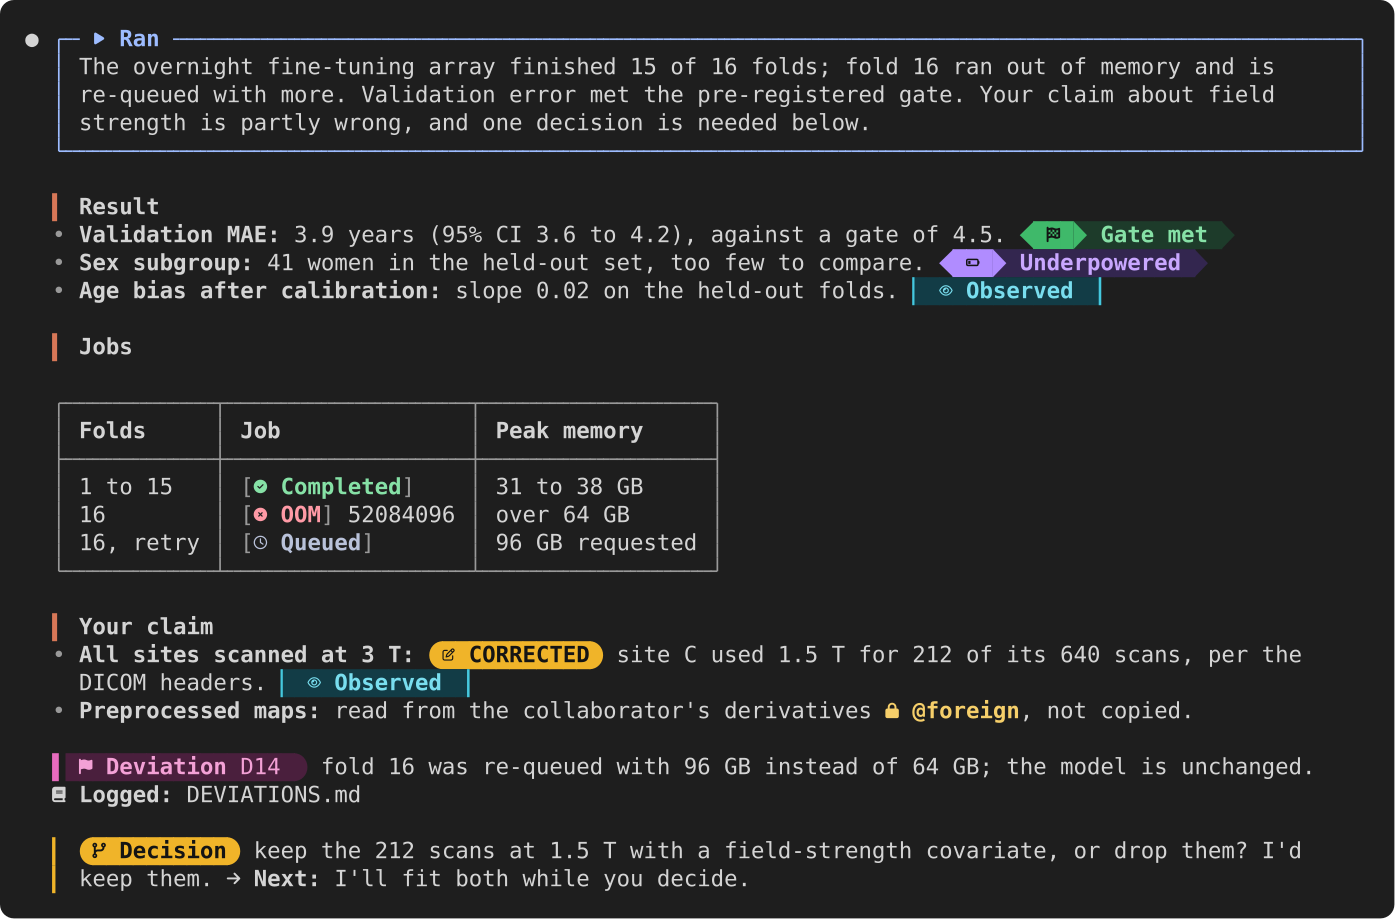
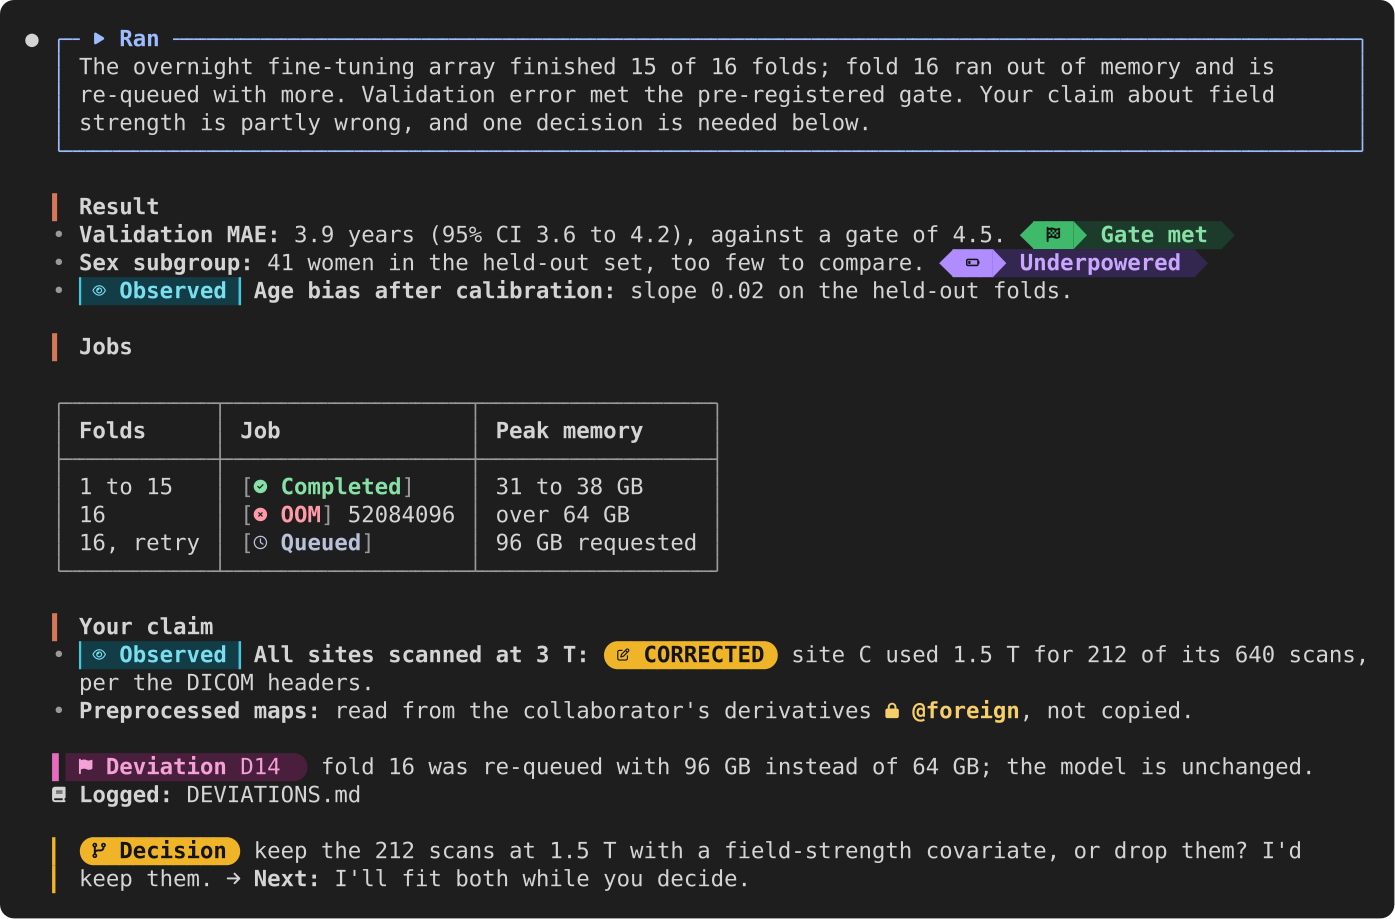
Evidence tags lead their bullet; tighter evidence chips
The rules now put an evidence tag at the start of the bullet or
paragraph it qualifies, before the lead label, and the plugin moves a
single trailing tag there, so tags line up at the left in replies from
any session. The evidence chip drops its inner padding: the thin edge
characters already leave most of their cell empty.

Changed region(s): [[0.0308, 0.6703, 0.9864, 0.7617], [0.0308, 0.2742, 0.8014, 0.3351]]

diff --git a/hooks/emphasis.ts b/hooks/emphasis.ts
@@ -239,7 +239,7 @@ export function pillRuns(text: string, set: Settings): Run[] {
       const themed = set.palette === 'theme'
       const fill = themed ? { color: h.text } : { bg: h.wash, color: h.onWash }
       const edge = themed ? { color: h.text } : { bg: h.wash, color: h.solid }
-      return [{ ...edge, s: '▏' }, ...pad(label(icon, word, detail, fill), fill), { ...edge, s: '▕' }]
+      return [{ ...edge, s: '▏' }, ...label(icon, word, detail, fill), { ...edge, s: '▕' }]
     }
     case 'verdict': {
       const fill = { bg: h.solid, color: h.onSolid }
@@ -317,6 +317,19 @@ function actionIcon(inner: string, set: Settings): string | undefined {
 }
 
 const PILL = /^\[\[([^[\]\n]{1,32})\]\]/
+const ANY_PILL = /\[\[([^[\]\n]{1,32})\]\]/g
+
+/**
+ * An evidence tag leads the bullet or paragraph it qualifies, so tags line up at the left. A single
+ * tag written at the end is moved to the front; with several tags, each stays where it was written.
+ */
+export function leadEvidence(raw: string): string {
+  const tags = [...raw.matchAll(ANY_PILL)].filter(m => WORDS[readLabel(m[1]!).word ?? '']?.family === 'evidence')
+  if (tags.length !== 1) return raw
+  const tag = tags[0]!
+  if (tag.index! + tag[0].length !== raw.trimEnd().length || tag.index === 0) return raw
+  return `${tag[0]} ${raw.slice(0, tag.index).trimEnd()}`
+}
 const LINK = /^\[([^\]\n]+)\]\(([^()\s]+)\)/
 const ESCAPABLE = /[\\`*_[\]()#+\-.!~|>{}]/
 
@@ -510,7 +523,7 @@ export function parseBlocks(markdown: string, set: Settings): Block[] {
       let lead = 0
       const conn = /^(?:[├└]──\s*)/.exec(item[3]!)
       if (conn) lead = conn[0].length
-      open = { raw: item[3]!, make: raw => ({ k: 'item', indent, marker, runs: parseInline(raw, set, { s: '' }, lead) }) }
+      open = { raw: item[3]!, make: raw => ({ k: 'item', indent, marker, runs: parseInline(leadEvidence(raw), set, { s: '' }, lead) }) }
       continue
     }
     const q = line.match(QUOTE)
@@ -543,7 +556,7 @@ export function parseBlocks(markdown: string, set: Settings): Block[] {
         const openWord = opener ? readLabel(opener[1]!).word : undefined
         if (!pad && openWord && WORDS[openWord]?.family === 'ask')
           return { k: 'ask', bar: swatches(set).amber.solid, runs: parseInline(raw, set, { s: '' }, lead) }
-        return { k: 'para', runs: [...(pad ? [{ s: pad }] : []), ...parseInline(raw, set, { s: '' }, lead)] }
+        return { k: 'para', runs: [...(pad ? [{ s: pad }] : []), ...parseInline(leadEvidence(raw), set, { s: '' }, lead)] }
       },
     }
   }
@@ -573,7 +586,7 @@ export function parseBlocks(markdown: string, set: Settings): Block[] {
 /** When each family is required: the trigger the model checks for, in the order a reply is read. */
 const TRIGGERS: [Family, string][] = [
   ['mode', 'The reply reports an investigation, an analysis, a run or a change, or proposes next steps: its first paragraph is the brief, which starts with one of these'],
-  ['evidence', 'You state a finding, a number or a result: end the sentence with where it comes from. When every item of a list has the same source, one tag on the list\'s lead line covers the list'],
+  ['evidence', 'You state a finding, a number or a result: start its bullet or paragraph with where it comes from, before the bold lead label. When claims in one bullet have different sources, split the bullet. When every item of a list has the same source, one tag on the list\'s lead line covers the list'],
   ['status', 'A piece of work has an outcome (done, passed, partly done, failed, blocked): put the status beside it, with a count as detail, such as [[Partial 6/8]]'],
   ['verdict', 'The user stated a claim or asked you to confirm one: open the answer with the verdict'],
   ['ask', 'Something only the user can do or decide: give it its own paragraph at the end of the reply, starting with the ask'],
@@ -588,10 +601,12 @@ const TRIGGERS: [Family, string][] = [
 const EXAMPLE = `[[Ran]] I tested the review skill blind on one published paper. It found 6 of the 8 defects I planted and left the untouched paper's matching passages alone. One decision is needed below.
 
 **Broken copy** [[Partial 6/8]]
-- **Mechanism paragraph:** flagged as the top comment. [[Observed]]
+- [[Observed]] **Mechanism paragraph:** flagged as the top comment.
 - **"little is known" gap:** missed; the new phrase scan now catches it. [[Fixed]]
 
-**Original paper:** it praised the six passages I had broken in the copy. [[Observed]] It holds drafts to his 2023 to 2025 habits rather than the 2021 paper's. [[Inferred]]
+[[Observed]] **Original paper:** it praised the six passages I had broken in the copy.
+
+[[Inferred]] **Era:** it holds drafts to his 2023 to 2025 habits rather than the 2021 paper's.
 
 [[Decision]] hold your drafts to his current habits, or to the era of each paper? I'd use current. **Next:** I'll record each habit's era in the profile.`
 
@@ -609,9 +624,9 @@ These rules shape replies in this terminal. A display plugin draws each \`[[Word
 - **Markers are required where their trigger applies.** Skipping one hides information the user scans for. The triggers:
 ${triggers}
 - **Brief.** One to three plain sentences after the mode marker: what was checked, done or proposed, the outcome, and anything the user must do. No other markers and no bold inside it; the display draws it as a card with the mode in its border. Skip the brief for short answers, conceptual explanations, and manuscript text.
-- **Same place every time.** A verdict right after the bold lead label it answers; an evidence tag at the end of its sentence; a status beside the item or on the lead line of its list; an ask at the start of the last paragraph. At most two markers on a line, except a row of job states; when a reply would need more than about ten, put the items in a table with a column of markers.
+- **Same place every time.** An evidence tag at the start of its bullet or paragraph; a verdict right after the bold lead label it answers; a status beside the item or on the lead line of its list; an ask at the start of the last paragraph. At most two markers on a line, except a row of job states; when a reply would need more than about ten, put the items in a table with a column of markers.
 - **Every attention marker carries its action.** After [[Unverified]], [[Gate missed]], [[Failed]], [[Blocked]], [[Partial]], [[Needs you]], [[Decision]], [[Deviation]], a hazard or a failed job, give the one fact needed to act, introduced by a bold lead-in ending in a colon: ${ACTION_WORDS.map(w => `**${w}:**`).join(', ')}.
-- **Check before sending** a reply that reports work: it opens with the brief; each finding ends with an evidence tag (or its list's lead line has one); each outcome has a status; each ask is the last paragraph.
+- **Check before sending** a reply that reports work: it opens with the brief; each finding starts with an evidence tag (or its list's lead line has one); each outcome has a status; each ask is the last paragraph.
 - **Statistics stay in words and numbers.** Report effects with their CI or adjusted p in plain text; do not make significance into a marker. [[Underpowered]] is the exception.
 - **Bold lead labels, sparingly elsewhere.** Start a bullet that is about one subject with a bold lead label ending in a colon (**Cause:**). Inside sentences, bold at most one or two anchor terms per paragraph. Preferred lead labels: ${LEAD_LABELS.join(', ')}.
 - **Keep text that will be copied clean.** No markers, bold labels or tree shapes in manuscript paragraphs (give those as blockquotes), paths, commands, code, literal output, or anything written to a file.
@@ -628,7 +643,7 @@ ${EXAMPLE}
 /** The one-line reminder attached to each message the user types, so the rules stay in view in long sessions. */
 export const REMINDER =
   'Reply style (emphasis plugin): a reply that reports work opens with a brief starting [[Investigate]], [[Ran]], [[Changed]] or [[Propose]]; ' +
-  'each finding ends with [[Observed]], [[Inferred]], [[Unverified]] or [[Cited]]; each outcome gets a status such as [[Done]], [[Partial 6/8]] or [[Failed]]; ' +
+  'each finding starts with [[Observed]], [[Inferred]], [[Unverified]] or [[Cited]]; each outcome gets a status such as [[Done]], [[Partial 6/8]] or [[Failed]]; ' +
   'an ask is the last paragraph, starting [[Needs you]] or [[Decision]]. Full rules: the Reply style section of CLAUDE.md.'
 
 

diff --git a/reply-style.md b/reply-style.md
@@ -4,7 +4,7 @@ These rules shape replies in this terminal. A display plugin draws each `[[Word]
 
 - **Markers are required where their trigger applies.** Skipping one hides information the user scans for. The triggers:
   - **Mode.** The reply reports an investigation, an analysis, a run or a change, or proposes next steps: its first paragraph is the brief, which starts with one of these: [[Investigate]] (I looked into something and report what I found), [[Propose]] (I suggest what to do next), [[Changed]] (I edited files, data or jobs), [[Ran]] (I ran an analysis, test or job).
-  - **Evidence.** You state a finding, a number or a result: end the sentence with where it comes from. When every item of a list has the same source, one tag on the list's lead line covers the list: [[Observed]] (checked on disk or in a run), [[Inferred]] (reasoned from other evidence), [[Unverified]] (not checked), [[Cited]] (taken from a paper or doc, not checked here).
+  - **Evidence.** You state a finding, a number or a result: start its bullet or paragraph with where it comes from, before the bold lead label. When claims in one bullet have different sources, split the bullet. When every item of a list has the same source, one tag on the list's lead line covers the list: [[Observed]] (checked on disk or in a run), [[Inferred]] (reasoned from other evidence), [[Unverified]] (not checked), [[Cited]] (taken from a paper or doc, not checked here).
   - **Status.** A piece of work has an outcome (done, passed, partly done, failed, blocked): put the status beside it, with a count as detail, such as [[Partial 6/8]]: [[Done]] (finished), [[Passed]] (tests or checks passed), [[Handed over]] (work returned to the lead), [[Fixed]] (a defect repaired), [[Recommended]] (the option I pick), [[Failed]] (something broke), [[Blocked]] (cannot proceed), [[Partial]] (some of it done), [[Skipped]] (left out on purpose), [[At risk]] (could fail).
   - **Verdict.** The user stated a claim or asked you to confirm one: open the answer with the verdict: [[Confirmed]] (the claim holds), [[Corrected]] (the claim is partly wrong), [[Contradicted]] (the claim is wrong).
   - **Ask.** Something only the user can do or decide: give it its own paragraph at the end of the reply, starting with the ask: [[Needs you]] (an action only the user can take), [[Decision]] (a call only the user makes).
@@ -14,9 +14,9 @@ These rules shape replies in this terminal. A display plugin draws each `[[Word]
   - **Owner.** You touched, or propose to touch, data, code or configuration that is not this task's own: [[Owned]] (made by this task), [[Shared]] (lab-shared storage others use), [[Foreign]] (someone else's, such as another person's derivatives).
   - **Hazard.** Before an action that deletes, cannot be undone, or spends GPU allocation; say what is lost or spent: [[Destructive]] (deletes or overwrites), [[Irreversible]] (cannot be undone), [[GPU quota]] (spends GPU allocation).
 - **Brief.** One to three plain sentences after the mode marker: what was checked, done or proposed, the outcome, and anything the user must do. No other markers and no bold inside it; the display draws it as a card with the mode in its border. Skip the brief for short answers, conceptual explanations, and manuscript text.
-- **Same place every time.** A verdict right after the bold lead label it answers; an evidence tag at the end of its sentence; a status beside the item or on the lead line of its list; an ask at the start of the last paragraph. At most two markers on a line, except a row of job states; when a reply would need more than about ten, put the items in a table with a column of markers.
+- **Same place every time.** An evidence tag at the start of its bullet or paragraph; a verdict right after the bold lead label it answers; a status beside the item or on the lead line of its list; an ask at the start of the last paragraph. At most two markers on a line, except a row of job states; when a reply would need more than about ten, put the items in a table with a column of markers.
 - **Every attention marker carries its action.** After [[Unverified]], [[Gate missed]], [[Failed]], [[Blocked]], [[Partial]], [[Needs you]], [[Decision]], [[Deviation]], a hazard or a failed job, give the one fact needed to act, introduced by a bold lead-in ending in a colon: **Check:**, **Do:**, **Next:**, **Unblock:**, **Left:**, **Run:**, **Guard:**, **Undo:**, **See:**, **Logged:**.
-- **Check before sending** a reply that reports work: it opens with the brief; each finding ends with an evidence tag (or its list's lead line has one); each outcome has a status; each ask is the last paragraph.
+- **Check before sending** a reply that reports work: it opens with the brief; each finding starts with an evidence tag (or its list's lead line has one); each outcome has a status; each ask is the last paragraph.
 - **Statistics stay in words and numbers.** Report effects with their CI or adjusted p in plain text; do not make significance into a marker. [[Underpowered]] is the exception.
 - **Bold lead labels, sparingly elsewhere.** Start a bullet that is about one subject with a bold lead label ending in a colon (**Cause:**). Inside sentences, bold at most one or two anchor terms per paragraph. Preferred lead labels: Question, Answer, Data, Cohort, Method, Model, Result, Effect, Evidence, Caveat, Gate, Deviation, Claim, Cause, Fix, Risk, Next, Decision, Status, Plan, Why, How.
 - **Keep text that will be copied clean.** No markers, bold labels or tree shapes in manuscript paragraphs (give those as blockquotes), paths, commands, code, literal output, or anything written to a file.
@@ -28,10 +28,12 @@ A reply that follows these rules:
 [[Ran]] I tested the review skill blind on one published paper. It found 6 of the 8 defects I planted and left the untouched paper's matching passages alone. One decision is needed below.
 
 **Broken copy** [[Partial 6/8]]
-- **Mechanism paragraph:** flagged as the top comment. [[Observed]]
+- [[Observed]] **Mechanism paragraph:** flagged as the top comment.
 - **"little is known" gap:** missed; the new phrase scan now catches it. [[Fixed]]
 
-**Original paper:** it praised the six passages I had broken in the copy. [[Observed]] It holds drafts to his 2023 to 2025 habits rather than the 2021 paper's. [[Inferred]]
+[[Observed]] **Original paper:** it praised the six passages I had broken in the copy.
+
+[[Inferred]] **Era:** it holds drafts to his 2023 to 2025 habits rather than the 2021 paper's.
 
 [[Decision]] hold your drafts to his current habits, or to the era of each paper? I'd use current. **Next:** I'll record each habit's era in the profile.
 ```

diff --git a/README.md b/README.md
@@ -45,7 +45,7 @@ Each family of markers has its own shape, so you can tell what kind of marker it
 
 | Family | Words | Shape |
 |---|---|---|
-| Evidence | Observed, Inferred, Unverified, Cited | filled chip with thin colored edges; the mark shows the grade (● observed, ◐ inferred, ○ unverified, § cited) |
+| Evidence | Observed, Inferred, Unverified, Cited | filled chip with thin colored edges, at the start of the bullet or paragraph it qualifies (a single tag written at the end is moved there); the mark shows the grade (● observed, ◐ inferred, ○ unverified, § cited) |
 | Verdict on a claim you made | Confirmed, Corrected, Contradicted | solid stamp in capitals |
 | Gates (pre-registered pass/stop thresholds) | Gate met, Gate missed, Fold, Shelve, Exploratory, Underpowered | two-tone badge: a solid icon cell, then a soft label |
 | Work status | Done, Passed, Fixed, Recommended, Failed, Blocked, Partial, Skipped, At risk, Handed over | soft chip |
